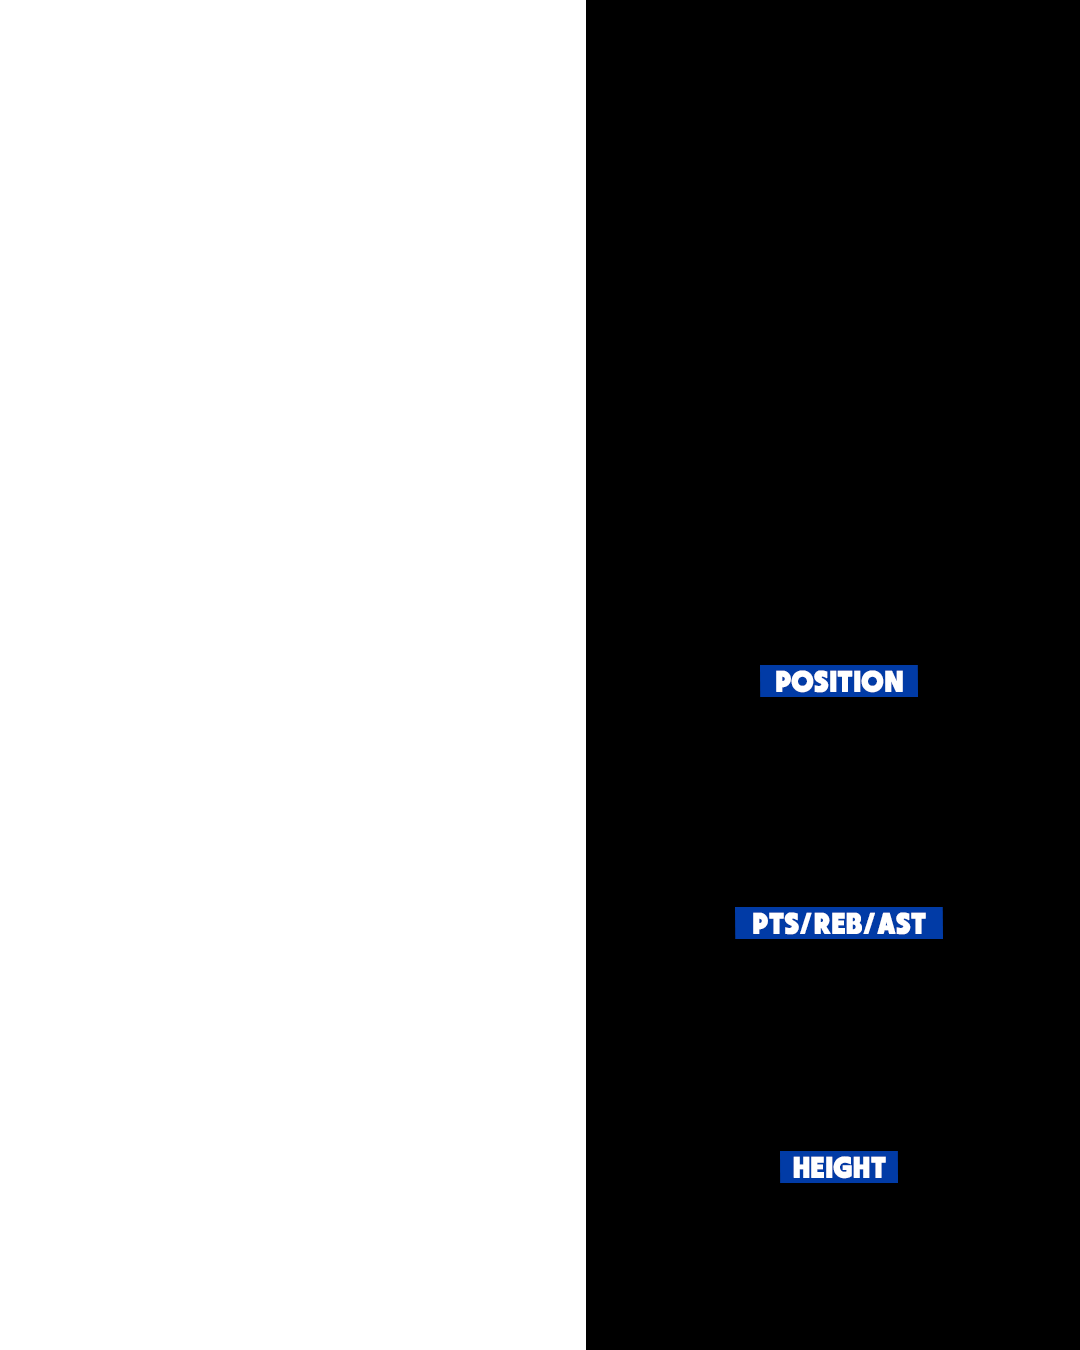
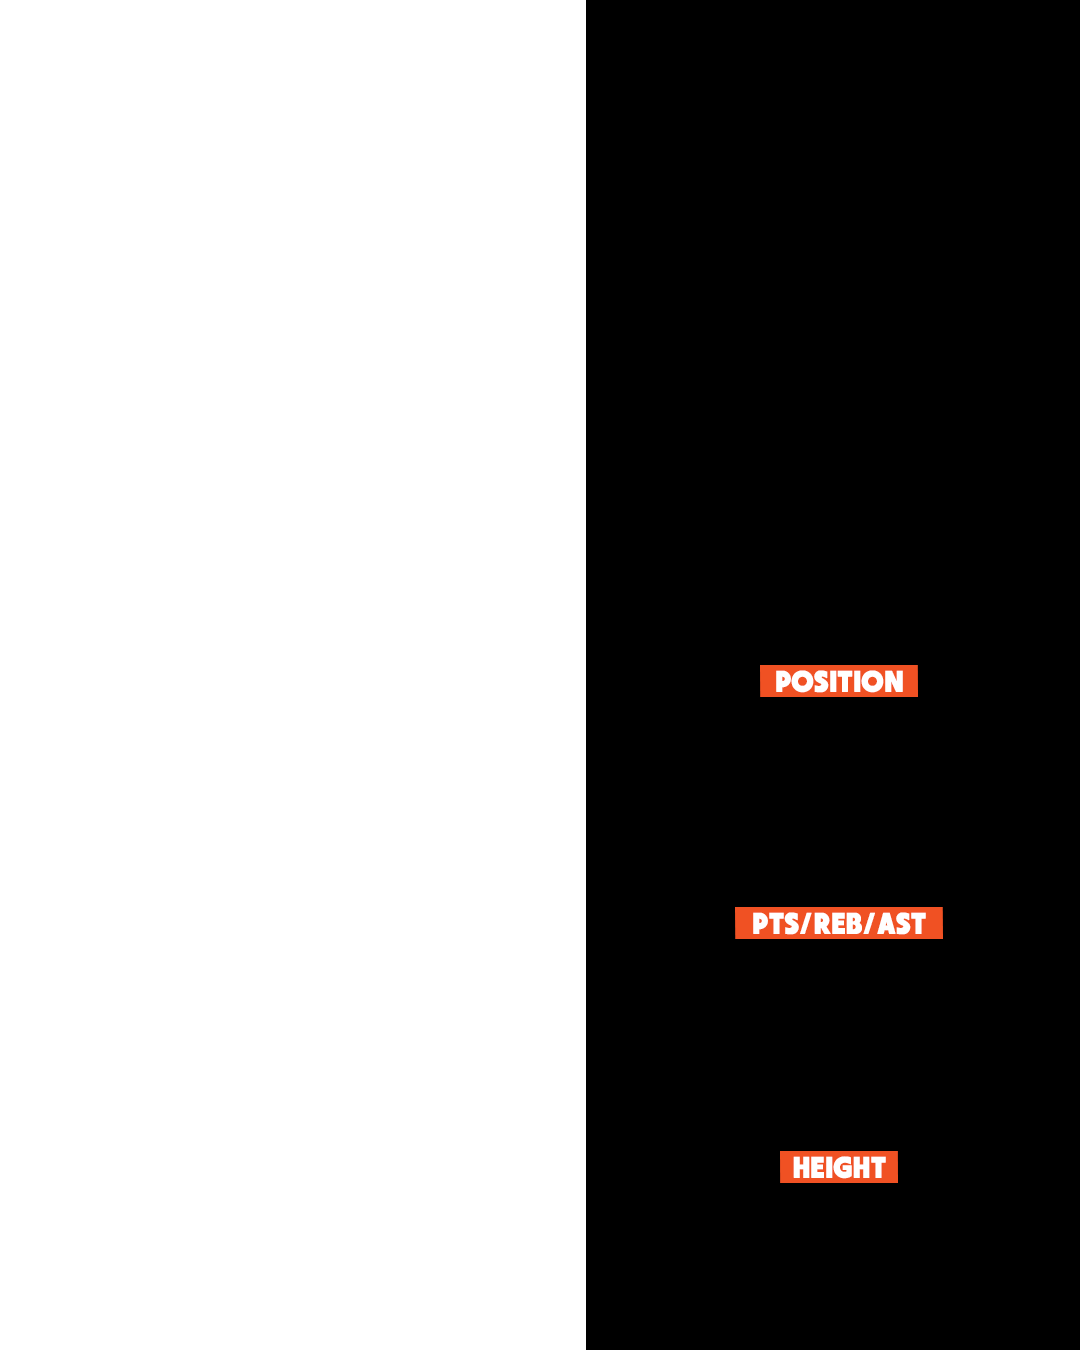
Update NBA card background and name layout

Changed region(s): [[0.6722, 0.6533, 0.8861, 0.7156], [0.7028, 0.4667, 0.8556, 0.5289], [0.7028, 0.84, 0.8556, 0.9022]]

diff --git a/app.js b/app.js
@@ -593,6 +593,14 @@ function getCanvasLinesForElement(element) {
   return getTextLinesForElement(element);
 }
 
+function getTextBlockStartY(rect, blockHeight, verticalAlign = "center") {
+  if (verticalAlign === "top") {
+    return rect.y;
+  }
+
+  return rect.y + Math.max((rect.height - blockHeight) / 2, 0);
+}
+
 function drawTextBlockToCanvas(context, element, cardRect, scale, options = {}) {
   const style = window.getComputedStyle(element);
   const rect = getScaledRect(element, cardRect, scale);
@@ -600,6 +608,7 @@ function drawTextBlockToCanvas(context, element, cardRect, scale, options = {}) 
   const lines = getCanvasLinesForElement(element);
   const textAlign = style.textAlign === "right" ? "right" : "center";
   const textX = textAlign === "right" ? rect.x + rect.width : rect.x + (rect.width / 2);
+  const verticalAlign = options.verticalAlign || "center";
 
   context.save();
   context.font = font;
@@ -607,7 +616,7 @@ function drawTextBlockToCanvas(context, element, cardRect, scale, options = {}) 
   context.textBaseline = "top";
 
   const blockHeight = lineHeight * lines.length;
-  let currentY = rect.y + Math.max((rect.height - blockHeight) / 2, 0);
+  let currentY = getTextBlockStartY(rect, blockHeight, verticalAlign);
 
   if (options.shadow) {
     context.fillStyle = options.shadow.color;
@@ -617,7 +626,7 @@ function drawTextBlockToCanvas(context, element, cardRect, scale, options = {}) 
       context.fillText(line, textX + offsetX, currentY + offsetY);
       currentY += lineHeight;
     }
-    currentY = rect.y + Math.max((rect.height - blockHeight) / 2, 0);
+    currentY = getTextBlockStartY(rect, blockHeight, verticalAlign);
   }
 
   context.fillStyle = options.fill || style.color;
@@ -736,7 +745,10 @@ async function exportCurrentPlayer() {
       drawTextBlockToCanvas(context, elements.teamFallback, cardRect, scale, { fill: "#ffffff" });
     }
 
-    drawTextBlockToCanvas(context, elements.cardName, cardRect, scale, { fill: "#ffffff" });
+    drawTextBlockToCanvas(context, elements.cardName, cardRect, scale, {
+      fill: "#ffffff",
+      verticalAlign: "top",
+    });
     drawTextBlockToCanvas(context, elements.cardPosition, cardRect, scale, { fill: "#ffffff" });
     drawTextBlockToCanvas(context, elements.cardStats, cardRect, scale, { fill: "#ffffff" });
     drawTextBlockToCanvas(context, elements.cardHeight, cardRect, scale, { fill: "#ffffff" });

diff --git a/styles.css b/styles.css
@@ -301,6 +301,10 @@ body {
   left: 57.88056%;
   width: 39.61204%;
   height: 14.77259%;
+  display: flex;
+  flex-direction: column;
+  justify-content: flex-start;
+  align-items: center;
   color: white;
   font-family: "BarlowCondensed", Impact, sans-serif;
   font-size: 8.88889cqw;

diff --git a/index.html b/index.html
@@ -68,7 +68,7 @@
             <img
               id="card-background"
               class="player-card__background"
-              src="./assets/backgrounds/card.png"
+              src="./assets/backgrounds/card.png?v=20260617-3"
               alt=""
             />
 